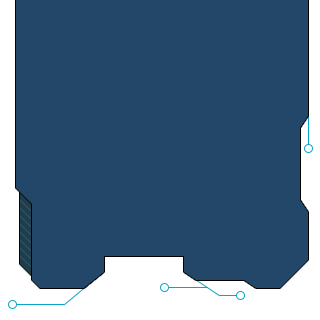
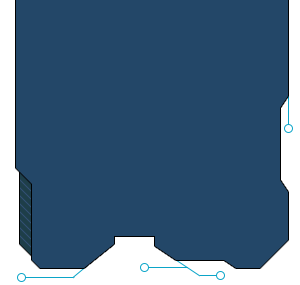
Updated panels to be correct size with breakout box

Changed region(s): [[0.03, 0.0, 0.99, 1.0]]

diff --git a/static/styles/main.css b/static/styles/main.css
@@ -15,15 +15,15 @@ html {
 
 body {
 	/* max-width of body is 960px + main header's border (both sides) + offset of  */
-	max-width: 1014px;
+	max-width: 1000px;
 	margin-right: auto;
 	margin-left: auto;
 	margin-top: 0;
 }
 
 .body-wrap {
-	margin-left: 19px;
-	margin-right: 19px;
+	margin-left: 42px;
+	margin-right: 42px;
 }
 
 main {
@@ -216,8 +216,8 @@ div.hf-inner-horz-edge {
 
 .panels-container {
 	position: relative;
-	margin-left: -32px;
-	margin-right: -32px;
+	margin-left: -50px;
+	margin-right: -50px;
 	text-align: center;
 	z-index: 1;
 }
@@ -226,14 +226,14 @@ article.panel {
 	border-radius: 16px 16px;
 	border: 1px solid #000000;
 	display: inline-block;
-	width: 320px;
-	margin-left: 8px;
-	margin-right: 8px;
+	width: 300px;
+	margin-left: 14px;
+	margin-right: 14px;
 	margin-bottom: 10px;
 	background-color: #234668; /* very old browser fallback */
-	box-shadow: -12px 12px 12px -6px #444444;
-	-webkit-box-shadow: -12px 12px 12px -6px #444444;
-	-moz-box-shadow: -12px 12px 12px -6px #444444;
+	-webkit-box-shadow: -16px 16px 16px -8px #444444;
+	-moz-box-shadow: -16px 16px 16px -8px #444444;
+	box-shadow: -16px 16px 16px -8px #444444;
 }
 
 article.panel h1 {
@@ -260,7 +260,7 @@ article.panel img {
 }
 
 article .panel-back-0, article .panel-back-1, article .panel-back-2  {
-	height: 320px;
+	height: 285px;
 	background-color: #336b91;
 	border-bottom-left-radius: 16px 16px;
 	border-bottom-right-radius: 16px 16px;
